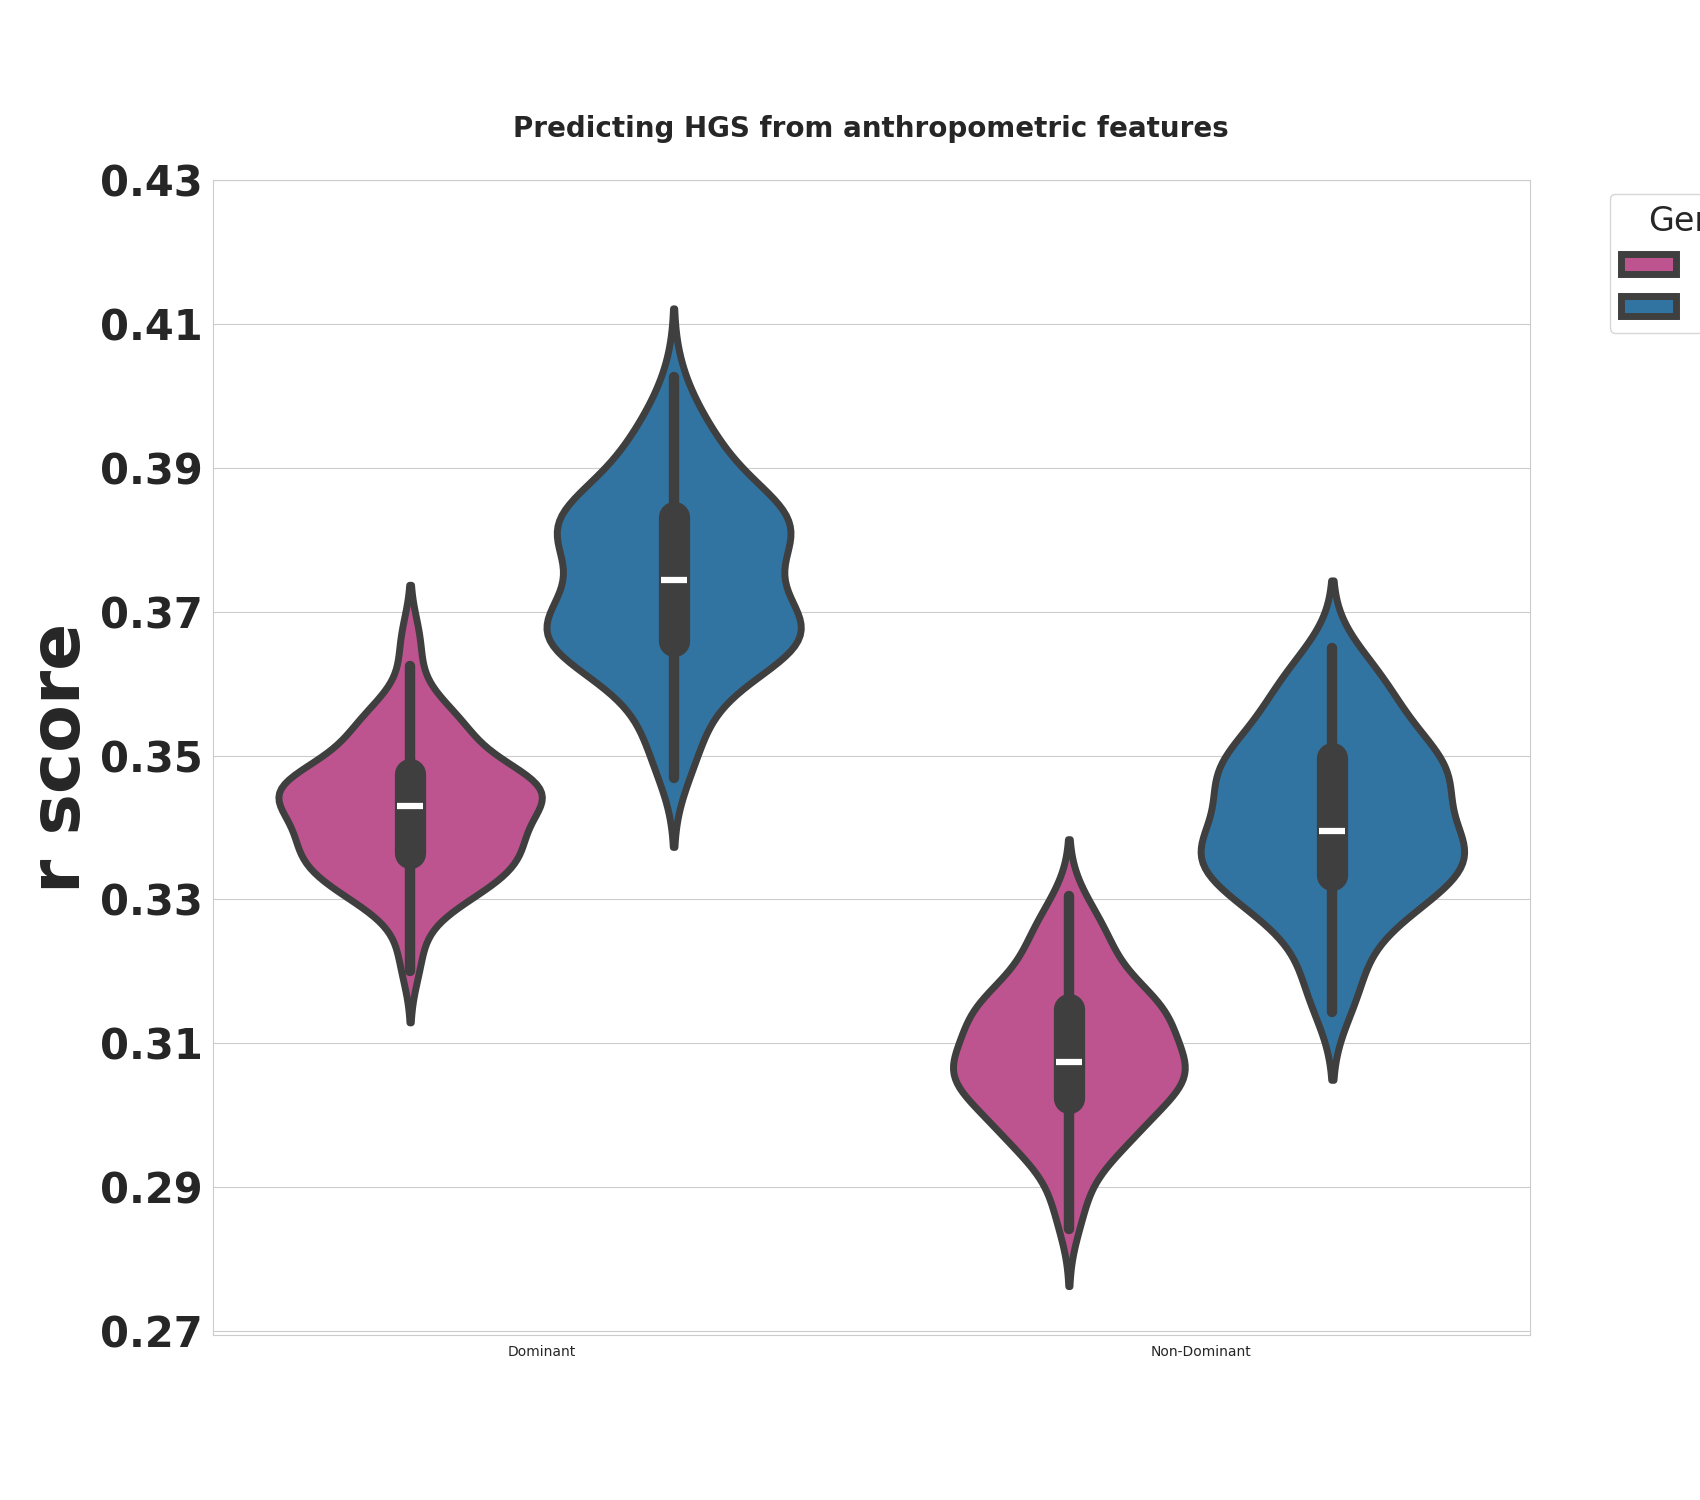
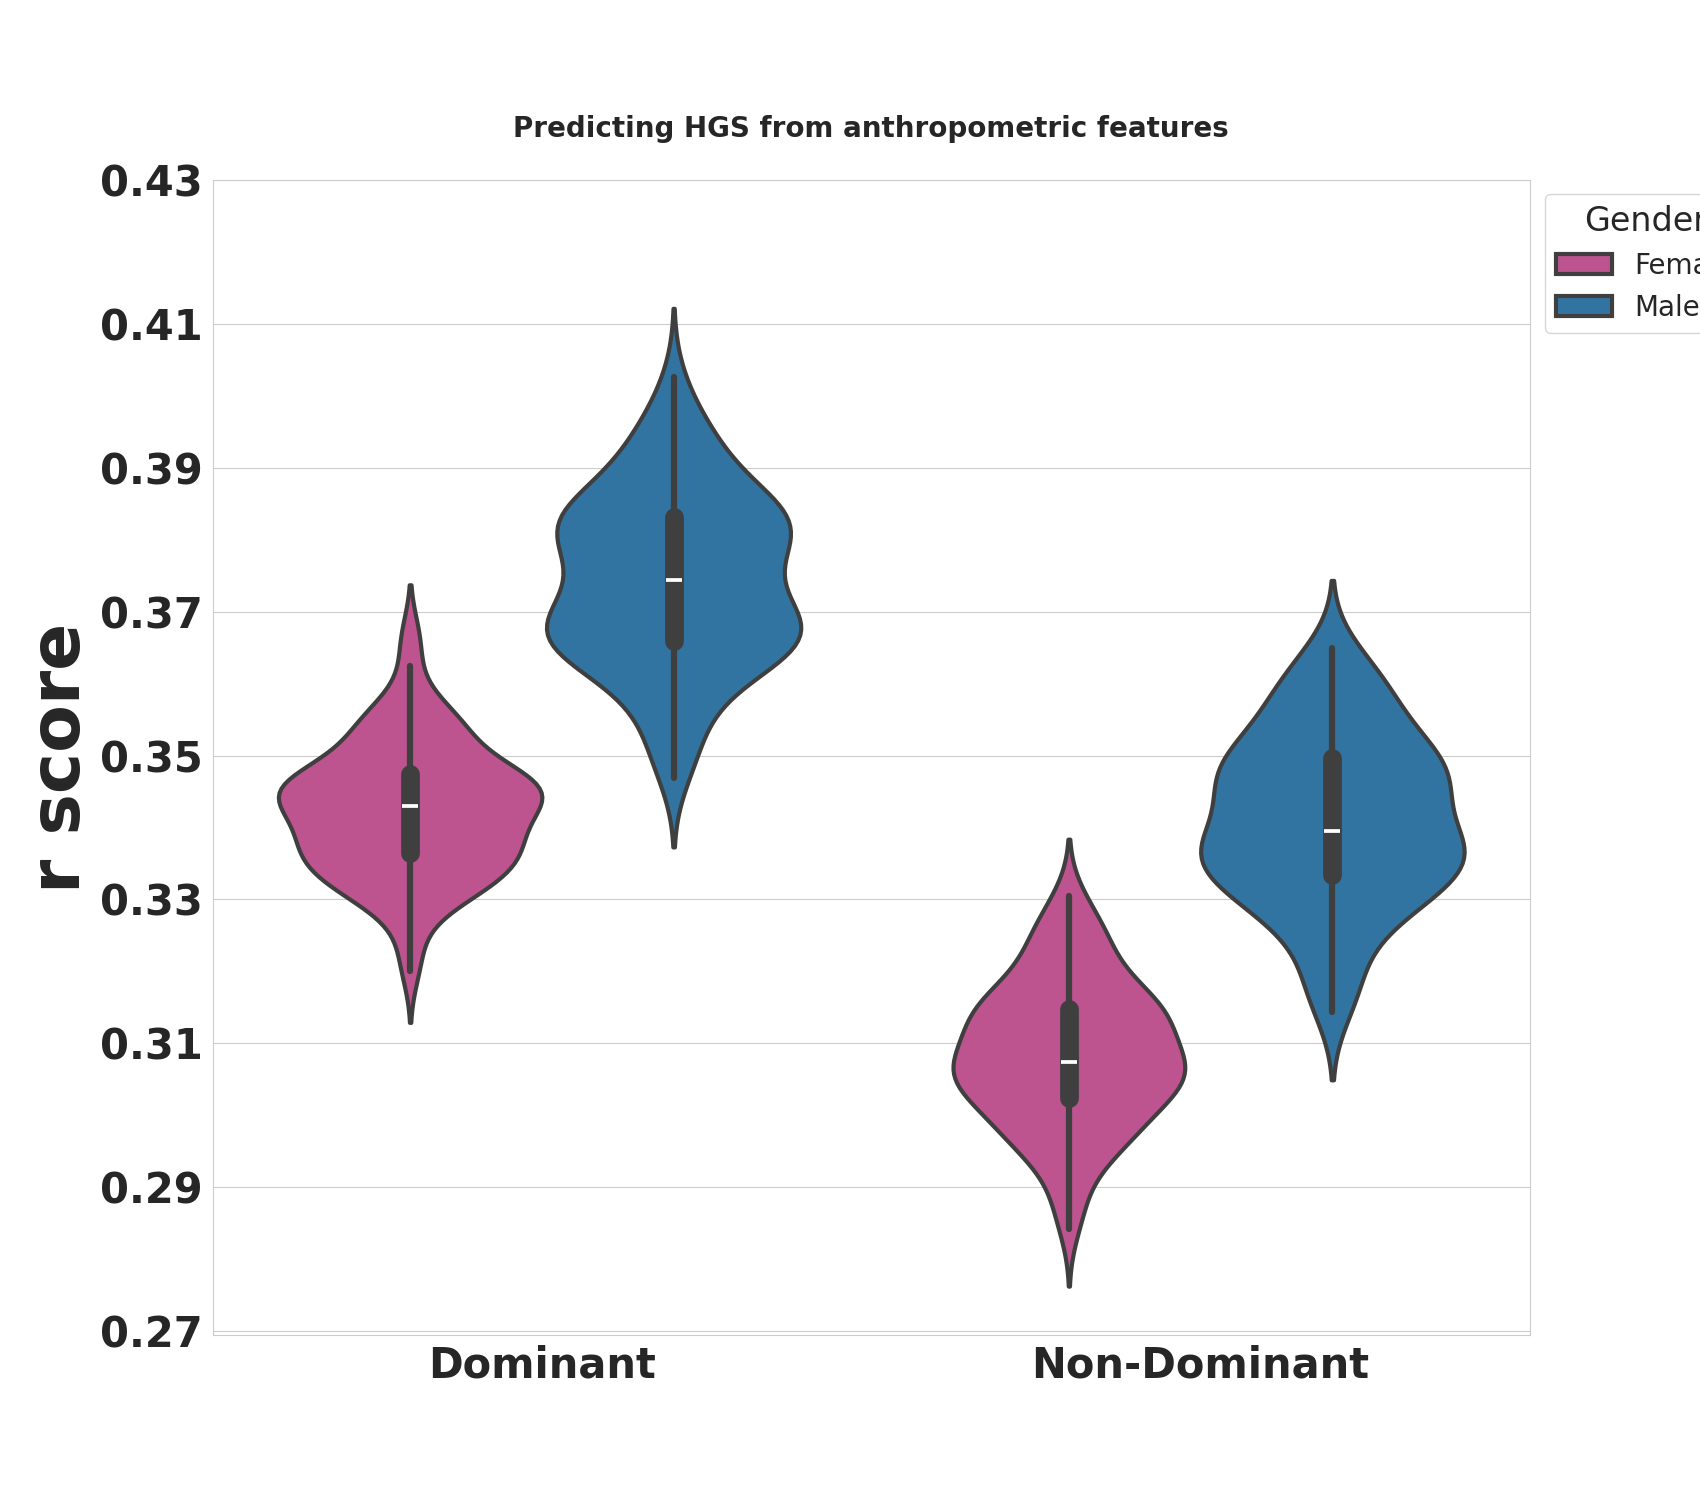
New files for plot corrected predictions for disorders

diff --git a/exec/plot_crc_2024/plot_dominant_nondominant.py b/exec/plot_crc_2024/plot_dominant_nondominant.py
@@ -92,17 +92,17 @@ df = pd.concat([df_dominant, df_nondominant], axis=0)
 
 ###############################################################################
 # Create a figure with the desired size
-palette_colors = sns.color_palette("Paired")
-custome_palette = {"Dominant": palette_colors[3], "Non-Dominant":palette_colors[2]}
-fig = plt.figure(figsize=(17, 15))
+palette_colors = sns.color_palette("RdBu")
+custome_palette = {"Dominant": palette_colors[0], "Non-Dominant":palette_colors[1]}
+fig = plt.figure(figsize=(18, 16))
 
 sns.set_style("whitegrid")
 # Plot the violin plot
-sns.violinplot(data=df, x="hgs_target", y="test_pearson_corr", hue="hgs_target", palette=custome_palette, linewidth=5, inner="box")
+sns.violinplot(data=df, x="hgs_target", y="test_pearson_corr", hue="hgs_target", palette=custome_palette, linewidth=3, inner="box")
 
 # Set xlabel, ylabel, and title
 plt.xlabel("")
-plt.ylabel("r score", fontsize=50, fontweight="bold")
+plt.ylabel("r value", fontsize=50, fontweight="bold")
 
 # Change x-axis tick labels
 # new_xticklabels = ["Dominant", "Non-Dominant"]  # Replace with your desired labels
@@ -131,15 +131,15 @@ palette_male = sns.color_palette("Paired")
 palette_female = sns.color_palette("PiYG")
 custom_color = {'Female': palette_female[0], 'Male': palette_male[1]}
 
-fig = plt.figure(figsize=(17, 15))
+fig = plt.figure(figsize=(18, 16))
 
 sns.set_style("whitegrid")
 # Plot the violin plot
-sns.violinplot(data=df, x="hgs_target", y="test_pearson_corr", hue="gender", palette=custom_color, linewidth=5, inner="box")
+sns.violinplot(data=df, x="hgs_target", y="test_pearson_corr", hue="gender", palette=custom_color, linewidth=3, inner="box")
 
 # Set xlabel, ylabel, and title
 plt.xlabel("")
-plt.ylabel("r score", fontsize=50, fontweight="bold")
+plt.ylabel("r value", fontsize=50, fontweight="bold")
 plt.xticks(fontsize=30, weight='bold')
 
 ymin, ymax = plt.ylim()
@@ -149,7 +149,7 @@ plt.yticks(np.arange(round(ymin/0.01)*.01, round(ymax/0.01)*.01+.03, y_step_valu
 plt.title("Predicting HGS from anthropometric features", fontsize=20, fontweight="bold", y=1.03)
 
 # Place legend outside the plot
-plt.legend(title="Gender", title_fontsize='24', fontsize='20', bbox_to_anchor=(1.05, 1), loc='upper left')
+plt.legend(title="Gender", title_fontsize='24', fontsize='20', bbox_to_anchor=(1.001, 1), loc='upper left')
 # Show the plot
 plt.show()
 # Save the plot to a file
